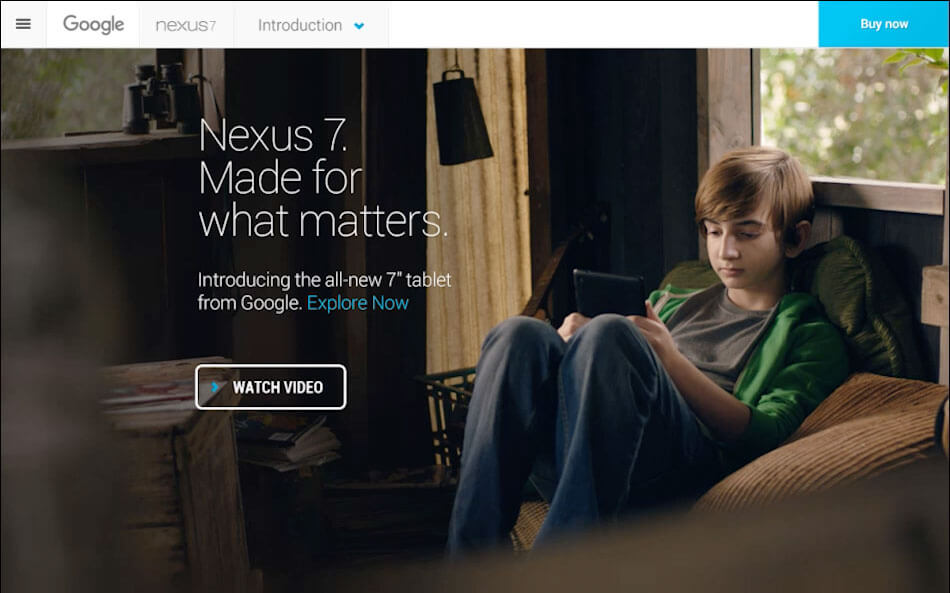
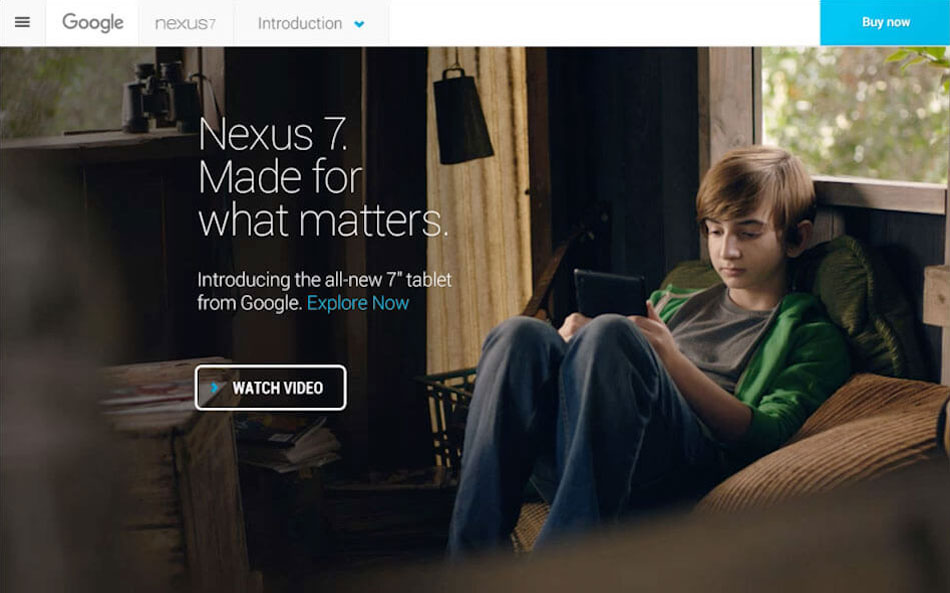
nexus video width fix

diff --git a/src/data/caseStudies.js b/src/data/caseStudies.js
@@ -215,7 +215,7 @@ export const caseStudies = [
           id: 'nexus',
           url: 'https://s3-us-west-1.amazonaws.com/rs-website-cdn/video/nexus_n7_950x624.mp4',
           url_sm: 'https://s3-us-west-1.amazonaws.com/rs-website-cdn/video/nexus_n7_950x624.mp4_sm',
-          maxWidth: '71.4%',
+          maxWidth: '71.9%',
           videoImage: require('assets/img/case-studies/laptop.png'),
           videoPadding: '7.6% 0 10.7%',
           videoPoster: require('assets/img/home/Nexus/nexus-video-arrow.jpg')

diff --git a/src/components/CaseStudy/CaseStudySection.jsx b/src/components/CaseStudy/CaseStudySection.jsx
@@ -27,9 +27,6 @@ class CaseStudySection extends React.Component {
 
   render () {
     const { caseStudyContent } = this.props;
-    // const { caseStudyContent.pad } = true;
-    // console.log(caseStudyContent);
-    // video, images, imgAlt, copy, pad, classes, containerClass
     return (
       <div className={ caseStudyContent.classes && caseStudyContent.classes }>
         { caseStudyContent.video &&
